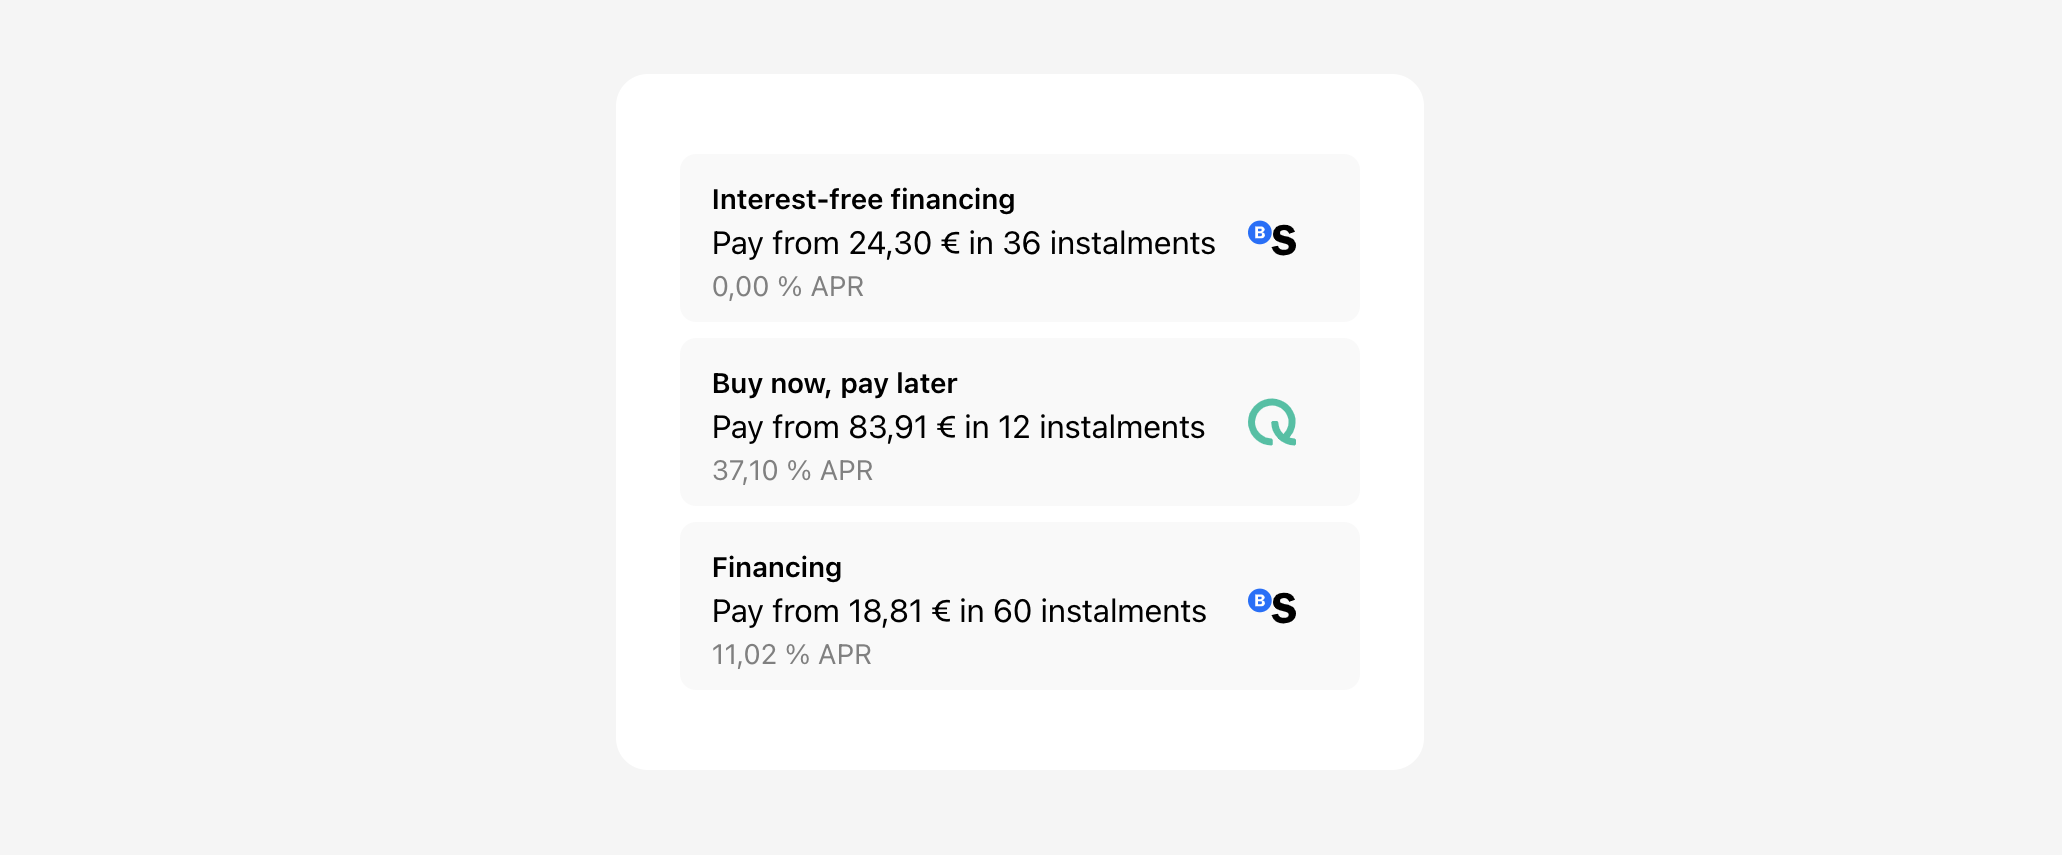
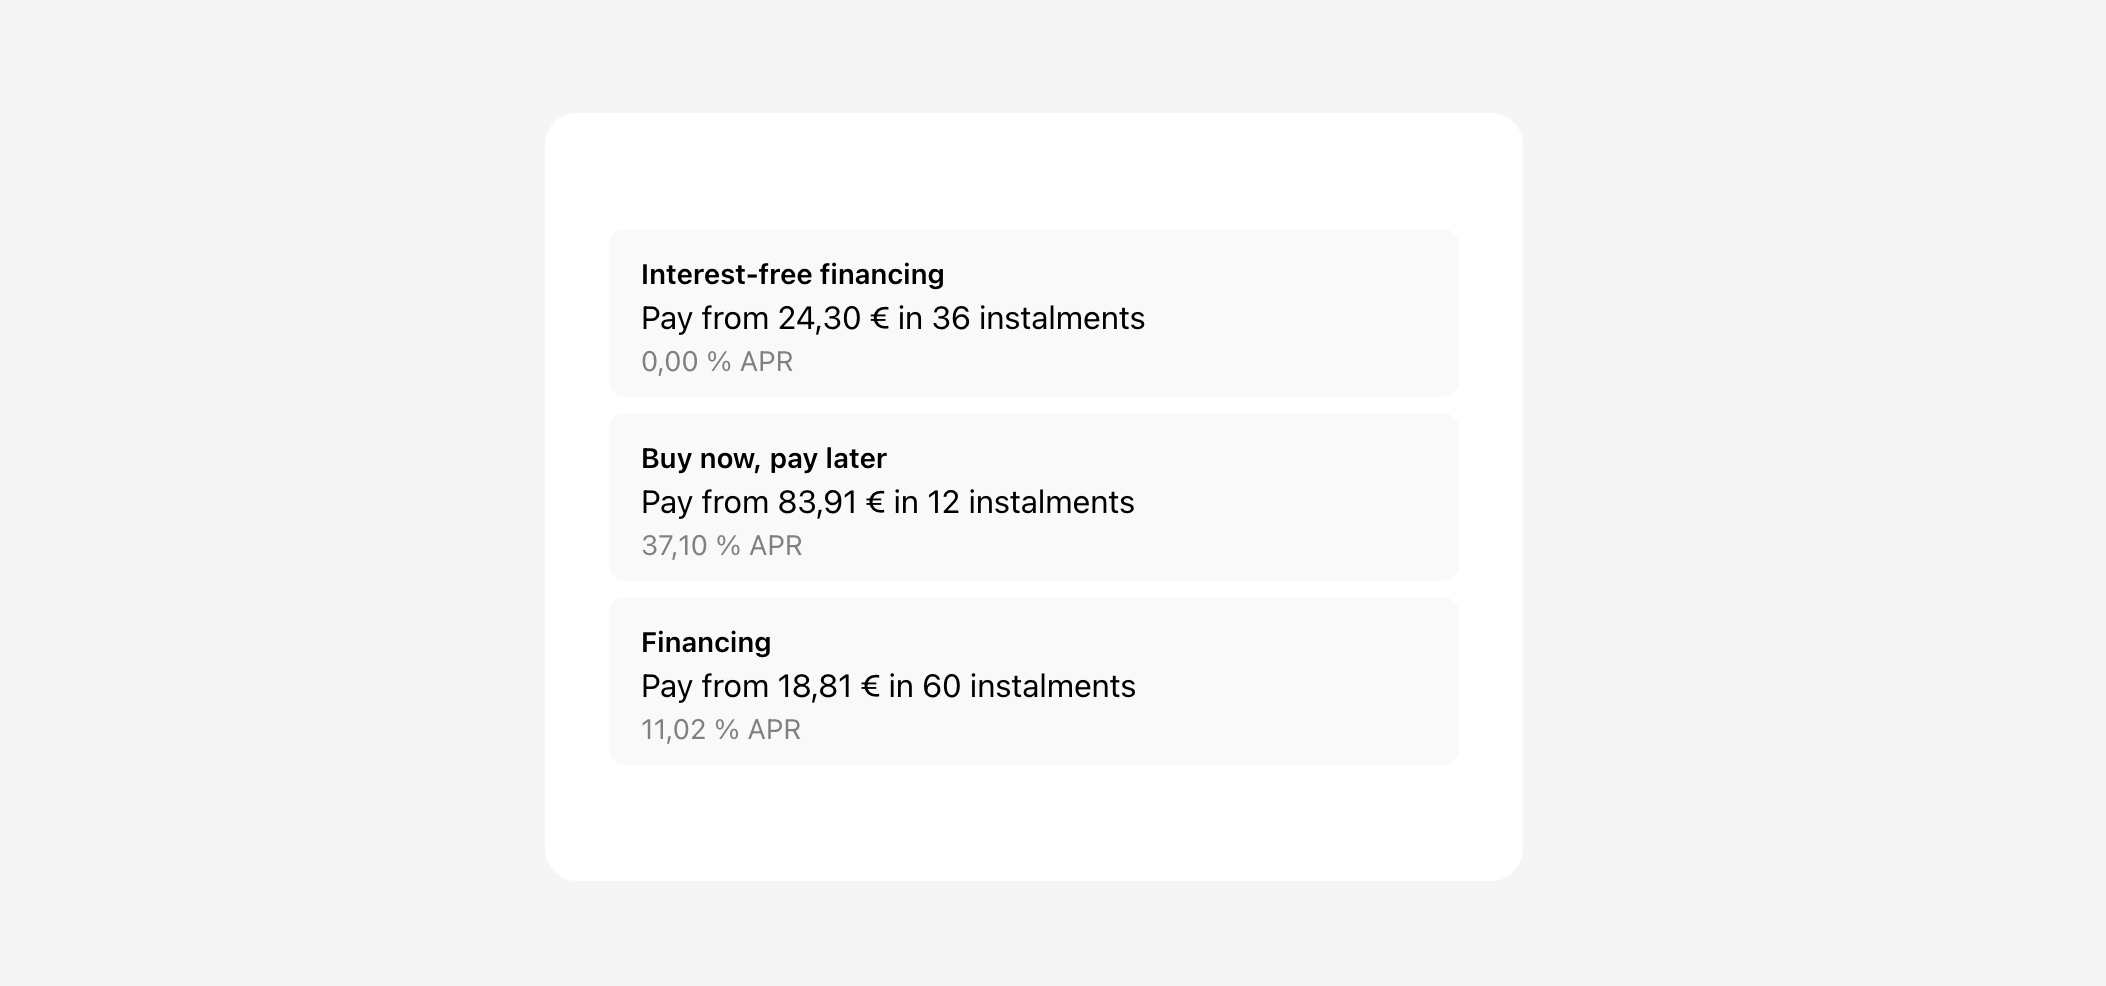
feat: added 04-payment_method

diff --git a/04-payment_method/public/index.html b/04-payment_method/public/index.html
@@ -66,16 +66,6 @@
         // Append the label to the radio-element div
         div.appendChild(label);
 
-        // Create logo
-        const logo = document.createElement("img");
-        logo.className = "pm-logo";
-        logo.src = `https://cdn.nemuru.com/assets/logos/letterform/${paymentMethod[0].conditions.lenderName}-logo.svg`;
-        logo.style.width = "24px";
-        logo.style.height = "24px";
-
-        // Append the logo to the div
-        div.appendChild(logo);
-
         document.querySelector("#payment-methods").appendChild(div);
       };
 
